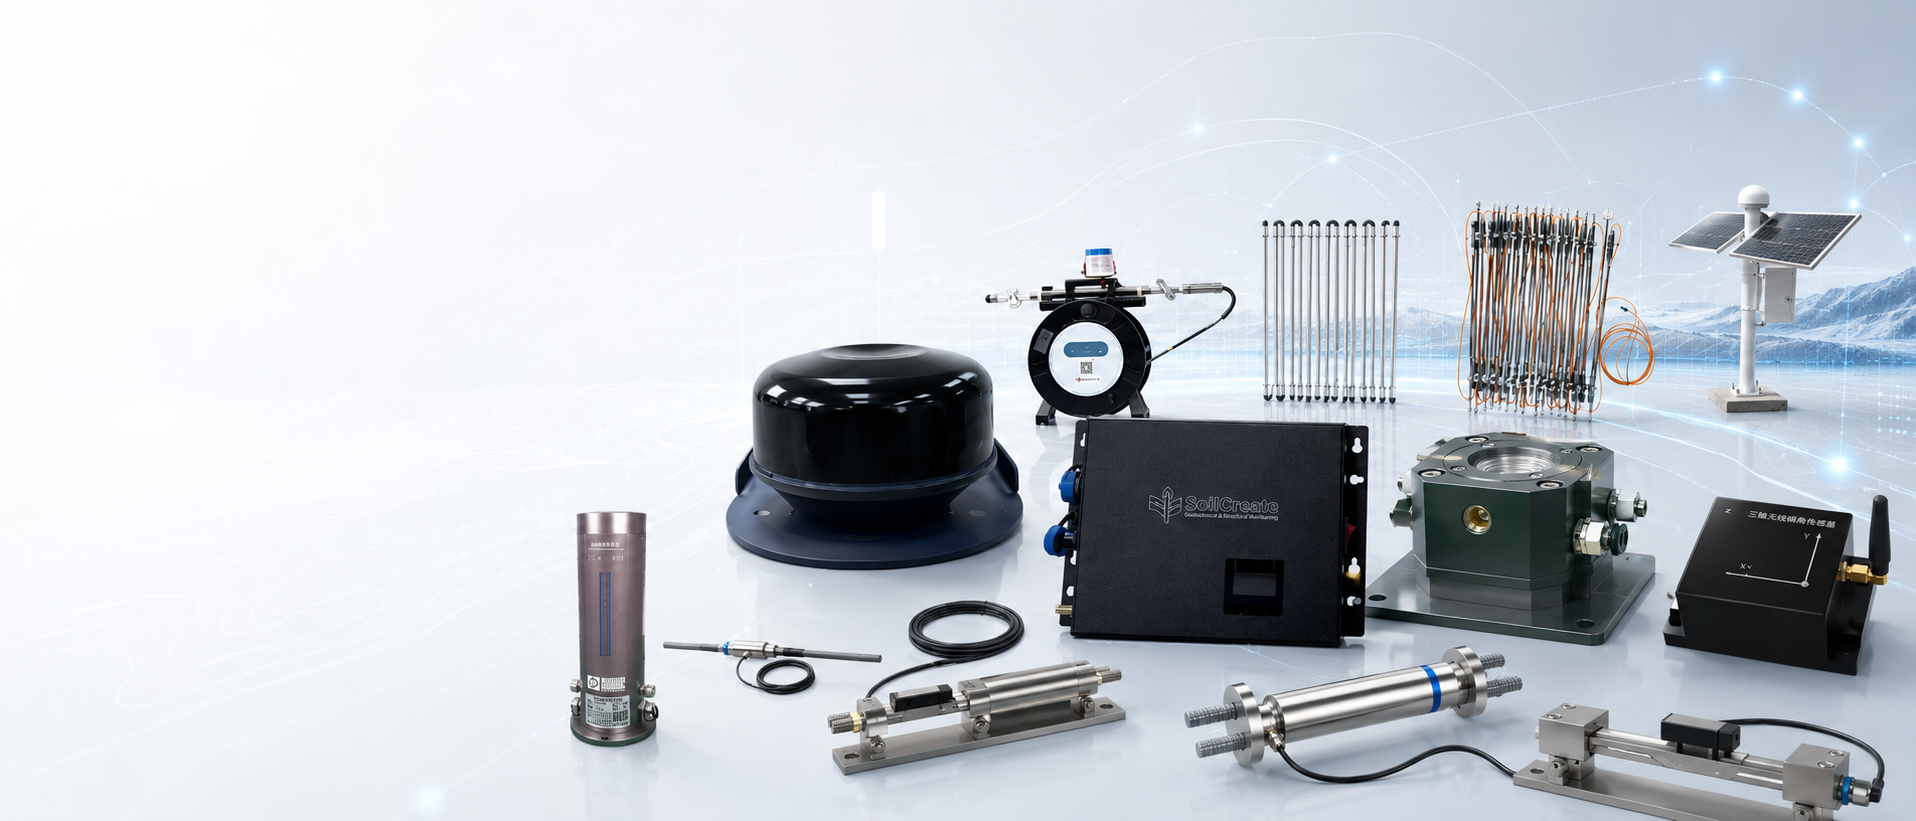
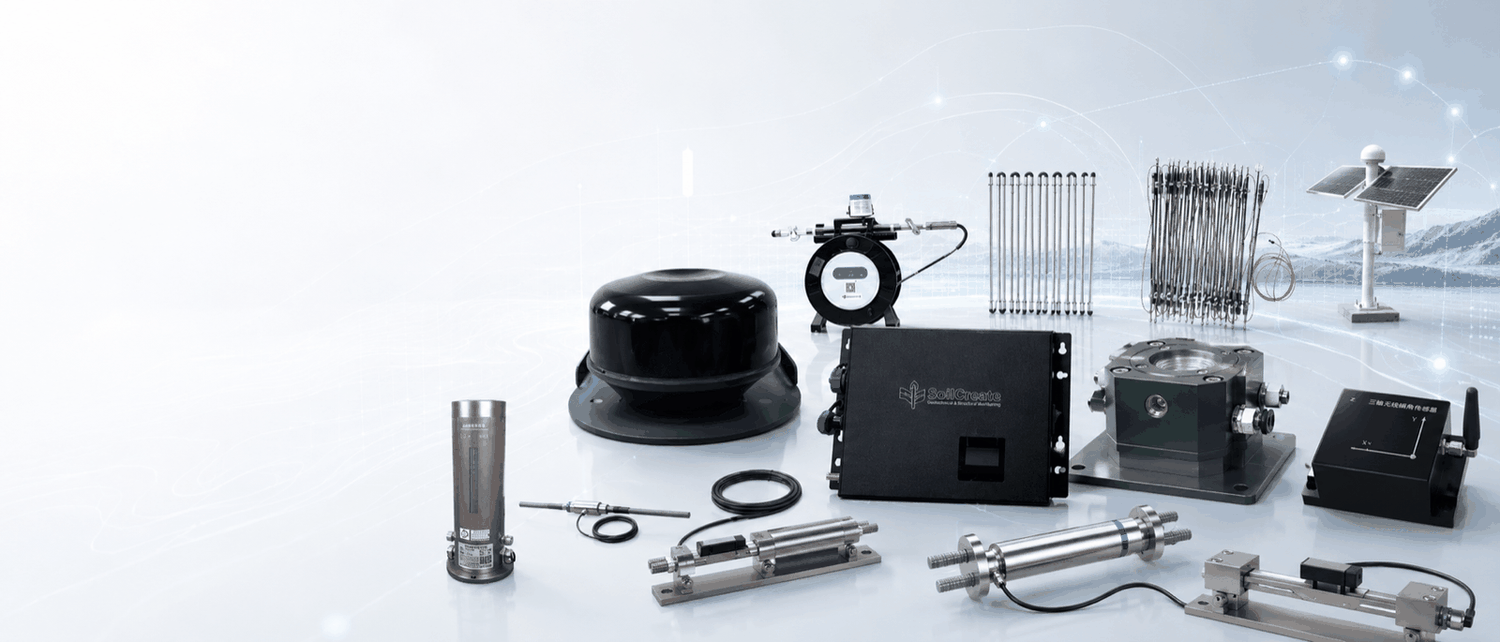
Optimize website image SEO and compression

diff --git a/docs/.vitepress/theme/components/EngineeringCapability.vue b/docs/.vitepress/theme/components/EngineeringCapability.vue
@@ -70,6 +70,8 @@ onBeforeUnmount(() => {
             :src="currentSlide.src"
             :alt="currentSlide.alt"
             :class="{ 'is-contained': currentSlide.fit === 'contain' }"
+            width="900"
+            height="680"
             loading="lazy"
             decoding="async"
           >
@@ -88,7 +90,16 @@ onBeforeUnmount(() => {
         </div>
 
         <div class="sc-engineering-field-grid">
-          <img v-for="image in fieldImages" :key="image.src" :src="image.src" :alt="image.alt" loading="lazy" decoding="async">
+          <img
+            v-for="image in fieldImages"
+            :key="image.src"
+            :src="image.src"
+            :alt="image.alt"
+            width="360"
+            height="220"
+            loading="lazy"
+            decoding="async"
+          >
         </div>
       </div>
 

diff --git a/docs/.vitepress/theme/components/ProductsList.vue b/docs/.vitepress/theme/components/ProductsList.vue
@@ -119,7 +119,15 @@ const toggleCategory = (categoryId) => {
         <div class="sc-grid">
           <article v-for="product in filteredProducts" :key="product.sku" class="sc-product-card">
             <a :href="product.href" class="sc-card-image">
-              <img v-if="product.image" :src="product.image" :alt="product.name" loading="lazy" />
+              <img
+                v-if="product.image"
+                :src="product.image"
+                :alt="product.imageAlt || product.name"
+                width="480"
+                height="300"
+                loading="lazy"
+                decoding="async"
+              />
               <span v-else>[ Image: {{ product.name }} ]</span>
             </a>
             <div class="sc-card-sku">{{ product.sku }}</div>

diff --git a/docs/.vitepress/theme/components/CaseStudyPage.vue b/docs/.vitepress/theme/components/CaseStudyPage.vue
@@ -313,7 +313,14 @@ const submitSubscribe = async () => {
         <div v-if="filteredArticles.length" class="sc-cs-grid sc-cs-grid--sidebar">
           <a v-for="article in filteredArticles" :key="article.href" :href="article.href" class="sc-cs-card">
             <div class="sc-cs-img">
-              <img :src="article.image" :alt="article.imageAlt" loading="lazy" decoding="async">
+              <img
+                :src="article.image"
+                :alt="article.imageAlt"
+                width="480"
+                height="300"
+                loading="lazy"
+                decoding="async"
+              >
               <span class="sc-cs-tag">{{ article.category }}</span>
             </div>
             <div class="sc-cs-content">

diff --git a/docs/.vitepress/theme/components/CaseStudyLayout.vue b/docs/.vitepress/theme/components/CaseStudyLayout.vue
@@ -40,7 +40,15 @@ const caseSections = computed(() => [
   <main class="sc-case-detail">
     <section class="sc-case-hero">
       <div class="sc-case-hero__media">
-        <img v-if="frontmatter.image" :src="frontmatter.image" :alt="frontmatter.imageAlt || frontmatter.title" />
+        <img
+          v-if="frontmatter.image"
+          :src="frontmatter.image"
+          :alt="frontmatter.imageAlt || frontmatter.title"
+          width="960"
+          height="640"
+          loading="lazy"
+          decoding="async"
+        />
         <div v-else class="sc-case-placeholder">
           <div class="sc-case-placeholder__icon">⌂</div>
           <p>{{ frontmatter.imageAlt || frontmatter.title }}</p>

diff --git a/docs/.vitepress/theme/components/CompanyCapabilities.vue b/docs/.vitepress/theme/components/CompanyCapabilities.vue
@@ -207,7 +207,14 @@ const serviceMetrics = [
           </div>
 
           <div class="sc-company-profile-media">
-            <img src="/images/case/rail-transit/rail-transit-hero.jpg" alt="Rail transit infrastructure project for geotechnical and structural monitoring">
+            <img
+              src="/images/case/rail-transit/rail-transit-hero.jpg"
+              alt="Rail transit infrastructure project for geotechnical and structural monitoring"
+              width="640"
+              height="420"
+              loading="lazy"
+              decoding="async"
+            >
           </div>
         </div>
       </div>

diff --git a/docs/.vitepress/theme/components/HomePage.vue b/docs/.vitepress/theme/components/HomePage.vue
@@ -100,7 +100,14 @@ const hotProducts = catalog.products
     <div class="sc-grid">
       <a v-for="product in hotProducts" :key="product.sku" :href="product.href" class="sc-cat-card">
         <div class="sc-cat-img">
-          <img :src="product.image" :alt="product.name" loading="lazy" decoding="async">
+          <img
+            :src="product.image"
+            :alt="product.imageAlt || product.name"
+            width="480"
+            height="320"
+            loading="lazy"
+            decoding="async"
+          >
         </div>
         <div class="sc-cat-content">
           <h3>{{ product.name }}</h3>

diff --git a/docs/.vitepress/theme/components/SeoArticleLayout.vue b/docs/.vitepress/theme/components/SeoArticleLayout.vue
@@ -63,7 +63,14 @@ const relatedArticles = computed(() => (frontmatter.value.relatedArticles || [])
     </header>
 
     <figure v-if="frontmatter.image" class="sc-article-cover">
-      <img :src="frontmatter.image" :alt="frontmatter.imageAlt || frontmatter.title" loading="lazy" decoding="async" />
+      <img
+        :src="frontmatter.image"
+        :alt="frontmatter.imageAlt || frontmatter.title"
+        width="1600"
+        height="700"
+        loading="lazy"
+        decoding="async"
+      />
       <figcaption>Featured image: {{ frontmatter.imageAlt || frontmatter.title }}</figcaption>
     </figure>
 

diff --git a/docs/.vitepress/theme/components/Header.vue b/docs/.vitepress/theme/components/Header.vue
@@ -32,7 +32,7 @@ const isActive = (item) => {
   </div>
 
   <header class="sc-header">
-    <a href="/" class="sc-logo"><img src="/images/logo/soilcreate-icon.png" alt="SoilCreate icon" class="sc-logo-icon" />Soil<span>Create</span></a>
+    <a href="/" class="sc-logo"><img src="/images/logo/soilcreate-icon.png" alt="SoilCreate icon" class="sc-logo-icon" width="32" height="32" decoding="async" />Soil<span>Create</span></a>
     <nav class="sc-nav" aria-label="Primary navigation">
       <a
         v-for="item in navItems"
